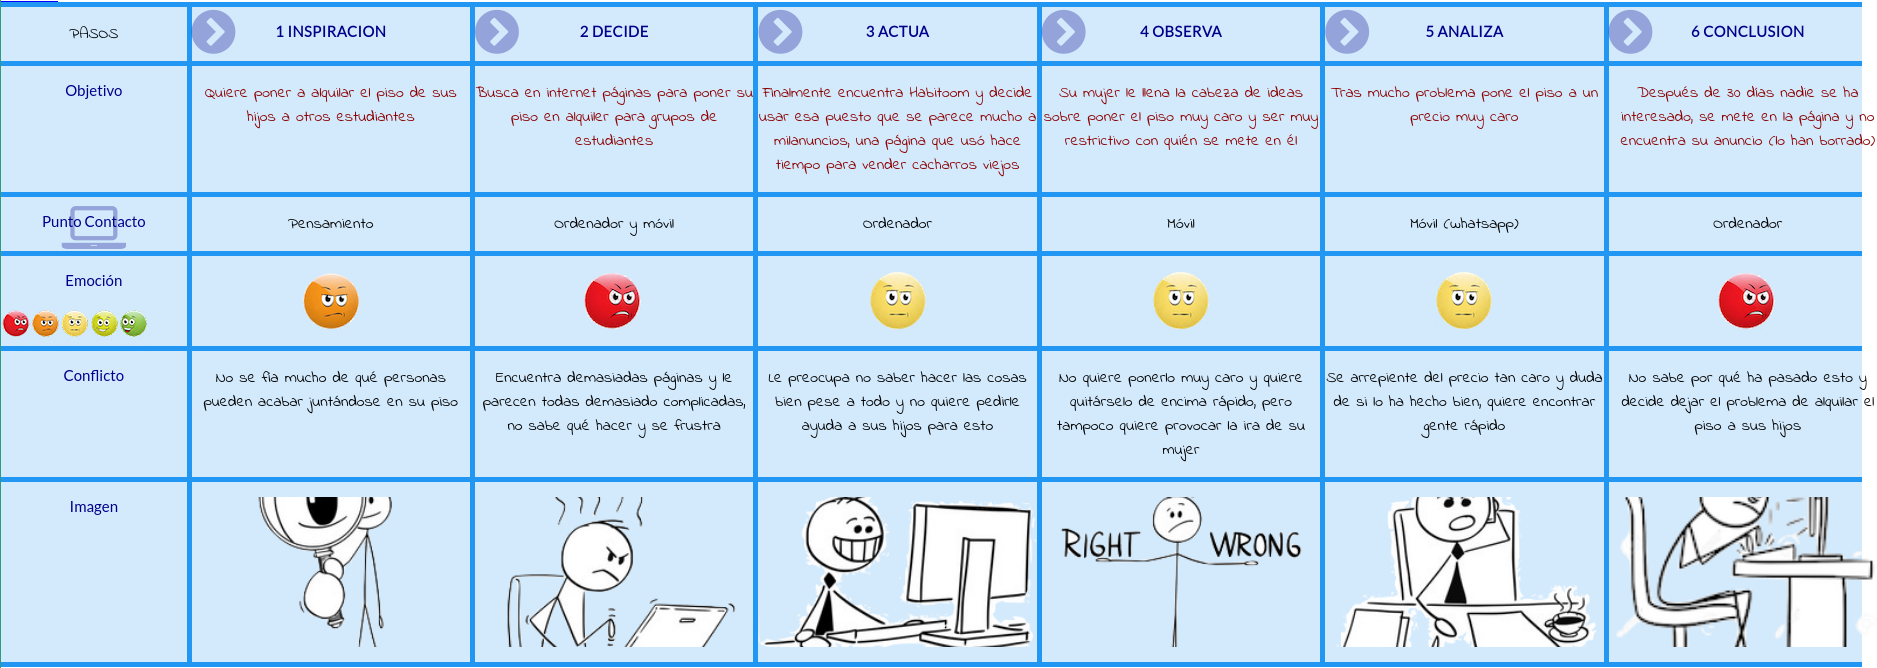
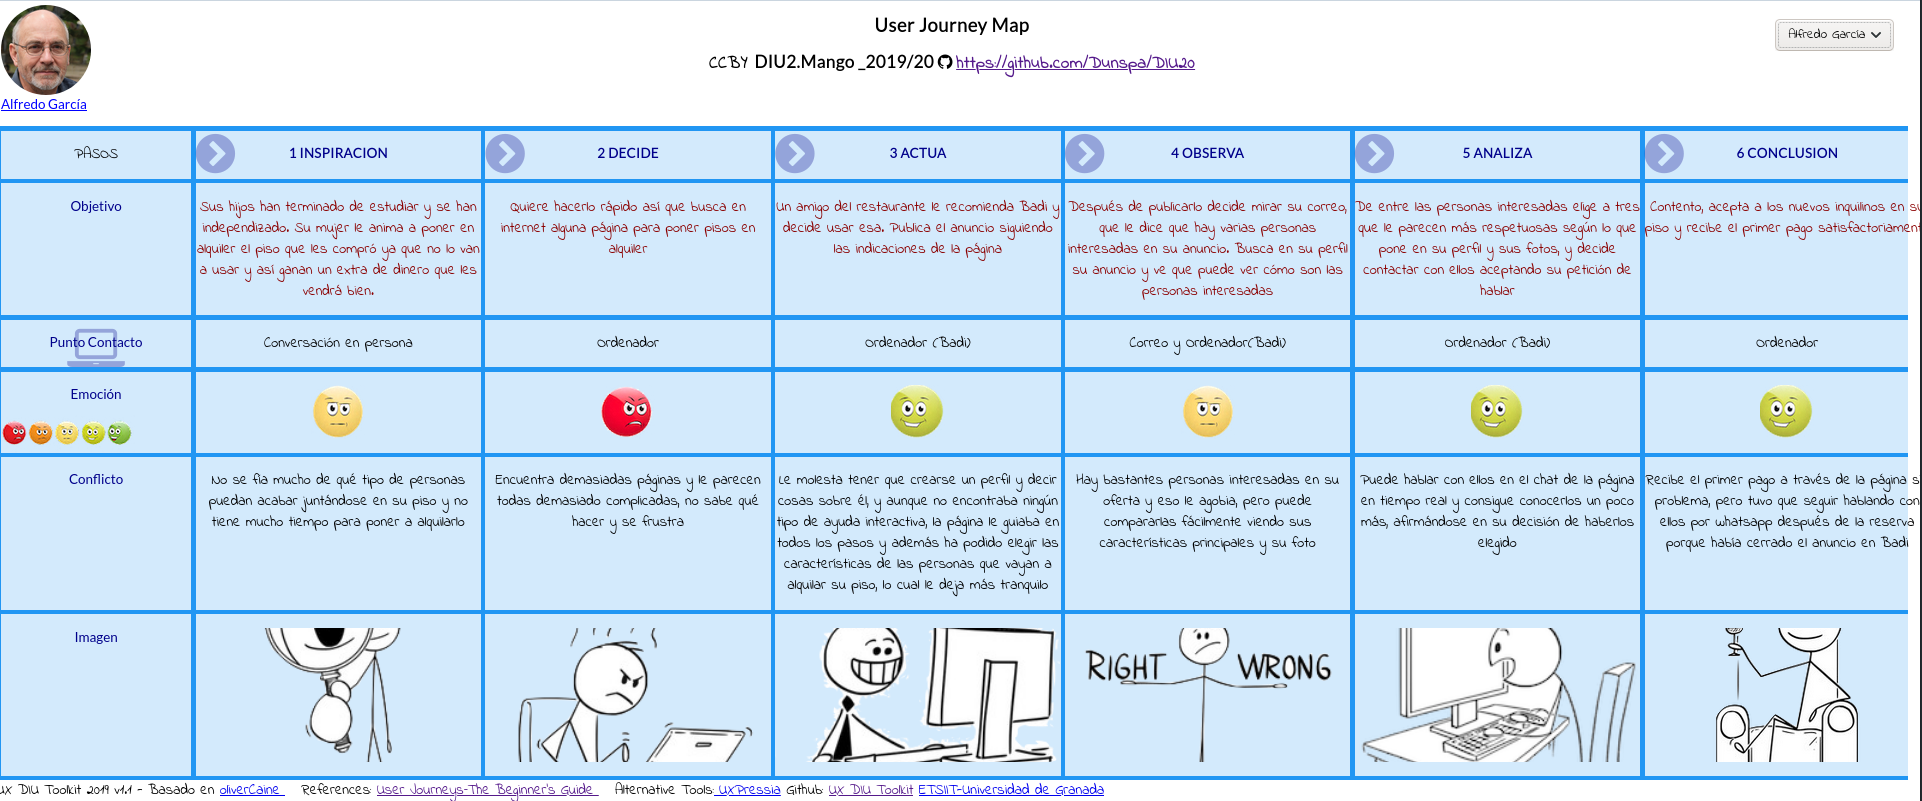
Cambiado mapas de experiencia de usuario

diff --git a/P1/README.md b/P1/README.md
@@ -28,7 +28,7 @@ En la siguiente tabla se resume si varias páginas web de economía colaborativa
 | Incluye paises de todo el mundo              | Sí       | Sí       | Sí           | Sí             |
 | Control de pago seguro                       | No       | Sí       | No           | No             |
 
-La opción elegida es **Badi** puesto que es la que he visto más simple y a la vez completa, centrándose a la vez en los alojamientos y en las personas, y en general siguiendo un modelo simple de buscar alojamiento por lugar y según cómo son las personas con las que compartir alojamiento. Otras opciones como Couchsurfing se alejan un poco más del compartir alojamiento y gastos (puesto que la gente ofrece gratis el sitio) y no está tan pensada para largas estancias, por lo que ha sido descartada. Además, varias partes de la página no están traducidas al español, como la ayuda.
+La opción elegida es **Badi** puesto que es la que he visto más simple y a la vez completa, con funciones interesantes para analizar como el chat y centrándose a la vez en los alojamientos y en las personas. Sigue un modelo simple de buscar alojamiento por lugar y según cómo son las personas con las que compartir alojamiento. Otras opciones como Couchsurfing se alejan un poco más del compartir alojamiento y gastos (puesto que la gente ofrece gratis el sitio) y no está tan pensada para largas estancias, por lo que ha sido descartada. Además, varias partes de la página no están traducidas al español, como la ayuda.
 
 A todas ellas les falta la opción de tener ayuda interactiva, pese a ser bastante simples, un usuario poco experimentado puede tener problemas. Todas tienen FAQ pero es bastante pobre y te saca de la propia página por lo que puede resultar poco cómodo. Habitoom por su parte tiene un número de WhatsApp, pero es insuficiente porque no se da más ayuda que esa. Esta además tiene una base de usuarios muy pobre, por lo que ya es fácil descartarla ya que lo principal de estas páginas es tener mucha variedad de ofertas. Por ejemplo, busqué pisos en Granada y no existía ninguno. 
 
@@ -56,7 +56,19 @@ Se han diseñado dos personas: **Alfredo** de 58 años y **Alexa** de 25. En sus
 
 ## C. User Journey Map
 
+Lo más habitual en este tipo de aplicaciones es precisamente desarrollar sus dos actividades principales: buscar alojamiento y ofrecer alojamiento. 
 
+La historia de Alfredo se basa en una persona que no tiene mucho manejo con la tecnología y además no tiene el tiempo para dedicarselo. Es importante que la aplicación sea clara y concisa, con guías paso a paso de lo que hacer para que la persona no abandone la página. Además, trata sobre varias funcionalidades de la página como el chat o el control del pago en el primer mes, que pueden facilitar mucho la estancia en la página y muestran lo positivo que puede ser que todo esté concentrado en un mismo lugar, sin tener que recurrir a otras herramientas externas.
+
+La historia de Alexa refleja el cómo un diseño agradable a primera vista lo es todo, y como pequeños detalles como limitar las opciones de búsqueda pueden hacer perder el tiempo a la persona y que se frustre, además de que también ilustra el cómo es muy necesario que una página de economía colaborativa se centre en las personas y sus características.
+
+**Alfredo Bummer**: "Alquilar el piso de sus hijos"
+
+![](/home/jlgallego99/Escritorio/Informatica/2o Cuatrimestre/DIU/DIU20/P1/mapa1.png)
+
+**Alexa Slowly**: "Buscar piso lejos con gente respetuosa"
+
+![](/home/jlgallego99/Escritorio/Informatica/2o Cuatrimestre/DIU/DIU20/P1/mapa2.png)
 
 ## D. Revisión de Usabilidad
 

diff --git a/README.md b/README.md
@@ -47,14 +47,14 @@ Todas usan un modelo B2C, haciendo de intermediarias para alojamiento. La opció
 | Incluye paises de todo el mundo              | Sí       | Sí       | Sí           | Sí             |
 | Control de pago seguro                       | No       | Sí       | No           | No             |
 
-[Click aquí para leer más sobre el análisis competitivo](P1/README.md)
+[Click aquí para leer más sobre el análisis competitivo](P1/README.md).
 
 ![Método UX](img/Persona.png) 1.b Persona
 -----
 
 >>> Comenta brevemente porqué has seleccionado a esas personas y sube una captura de pantalla de su ficha  (80-150 caracteres)
 
-Se han diseñado dos personas: **Alfredo** de 58 años, un hostelero poco hábil con la tecnología, y **Alexa** de 25 años, una estudiante tímida e inteligente. [Click aquí para leer más sobre ellos](P1/README.md)
+Se han diseñado dos personas: **Alfredo** de 58 años, un hostelero poco hábil con la tecnología, y **Alexa** de 25 años, una estudiante tímida e inteligente. [Click aquí para leer más sobre ellos](P1/README.md).
 
 ![](P1/persona1.png)
 
@@ -65,13 +65,13 @@ Se han diseñado dos personas: **Alfredo** de 58 años, un hostelero poco hábil
 
 >>> Comenta brevemente porqué has escogido estas dos experiencias de usuario (y si consideras que son habituales) (80-150 caracteres) 
 
-Algo habitual es que alguien no hábil con la tecnología no se aclare a la hora de usar la página o pase por alto cosas (el plazo de anuncio gratis de Habitoom), y también es habitual el hecho de que haya escepticismo en la convivencia, más aún si la página no proporciona demasiada información sobre esto.
+Lo más habitual en este tipo de aplicaciones es precisamente desarrollar sus dos actividades principales: buscar alojamiento y ofrecer alojamiento. [Click aquí para leer más sobre la elección de estas experiencias de usuario](P1/README.md).
 
-**Alfredo Bummer**:
+**Alfredo Bummer**: "Alquilar el piso de sus hijos"
 
 ![](P1/mapa1.png)
 
-**Alexa Slowly**:
+**Alexa Slowly**: "Buscar piso lejos con gente respetuosa"
 
 ![](P1/mapa2.png)
 
